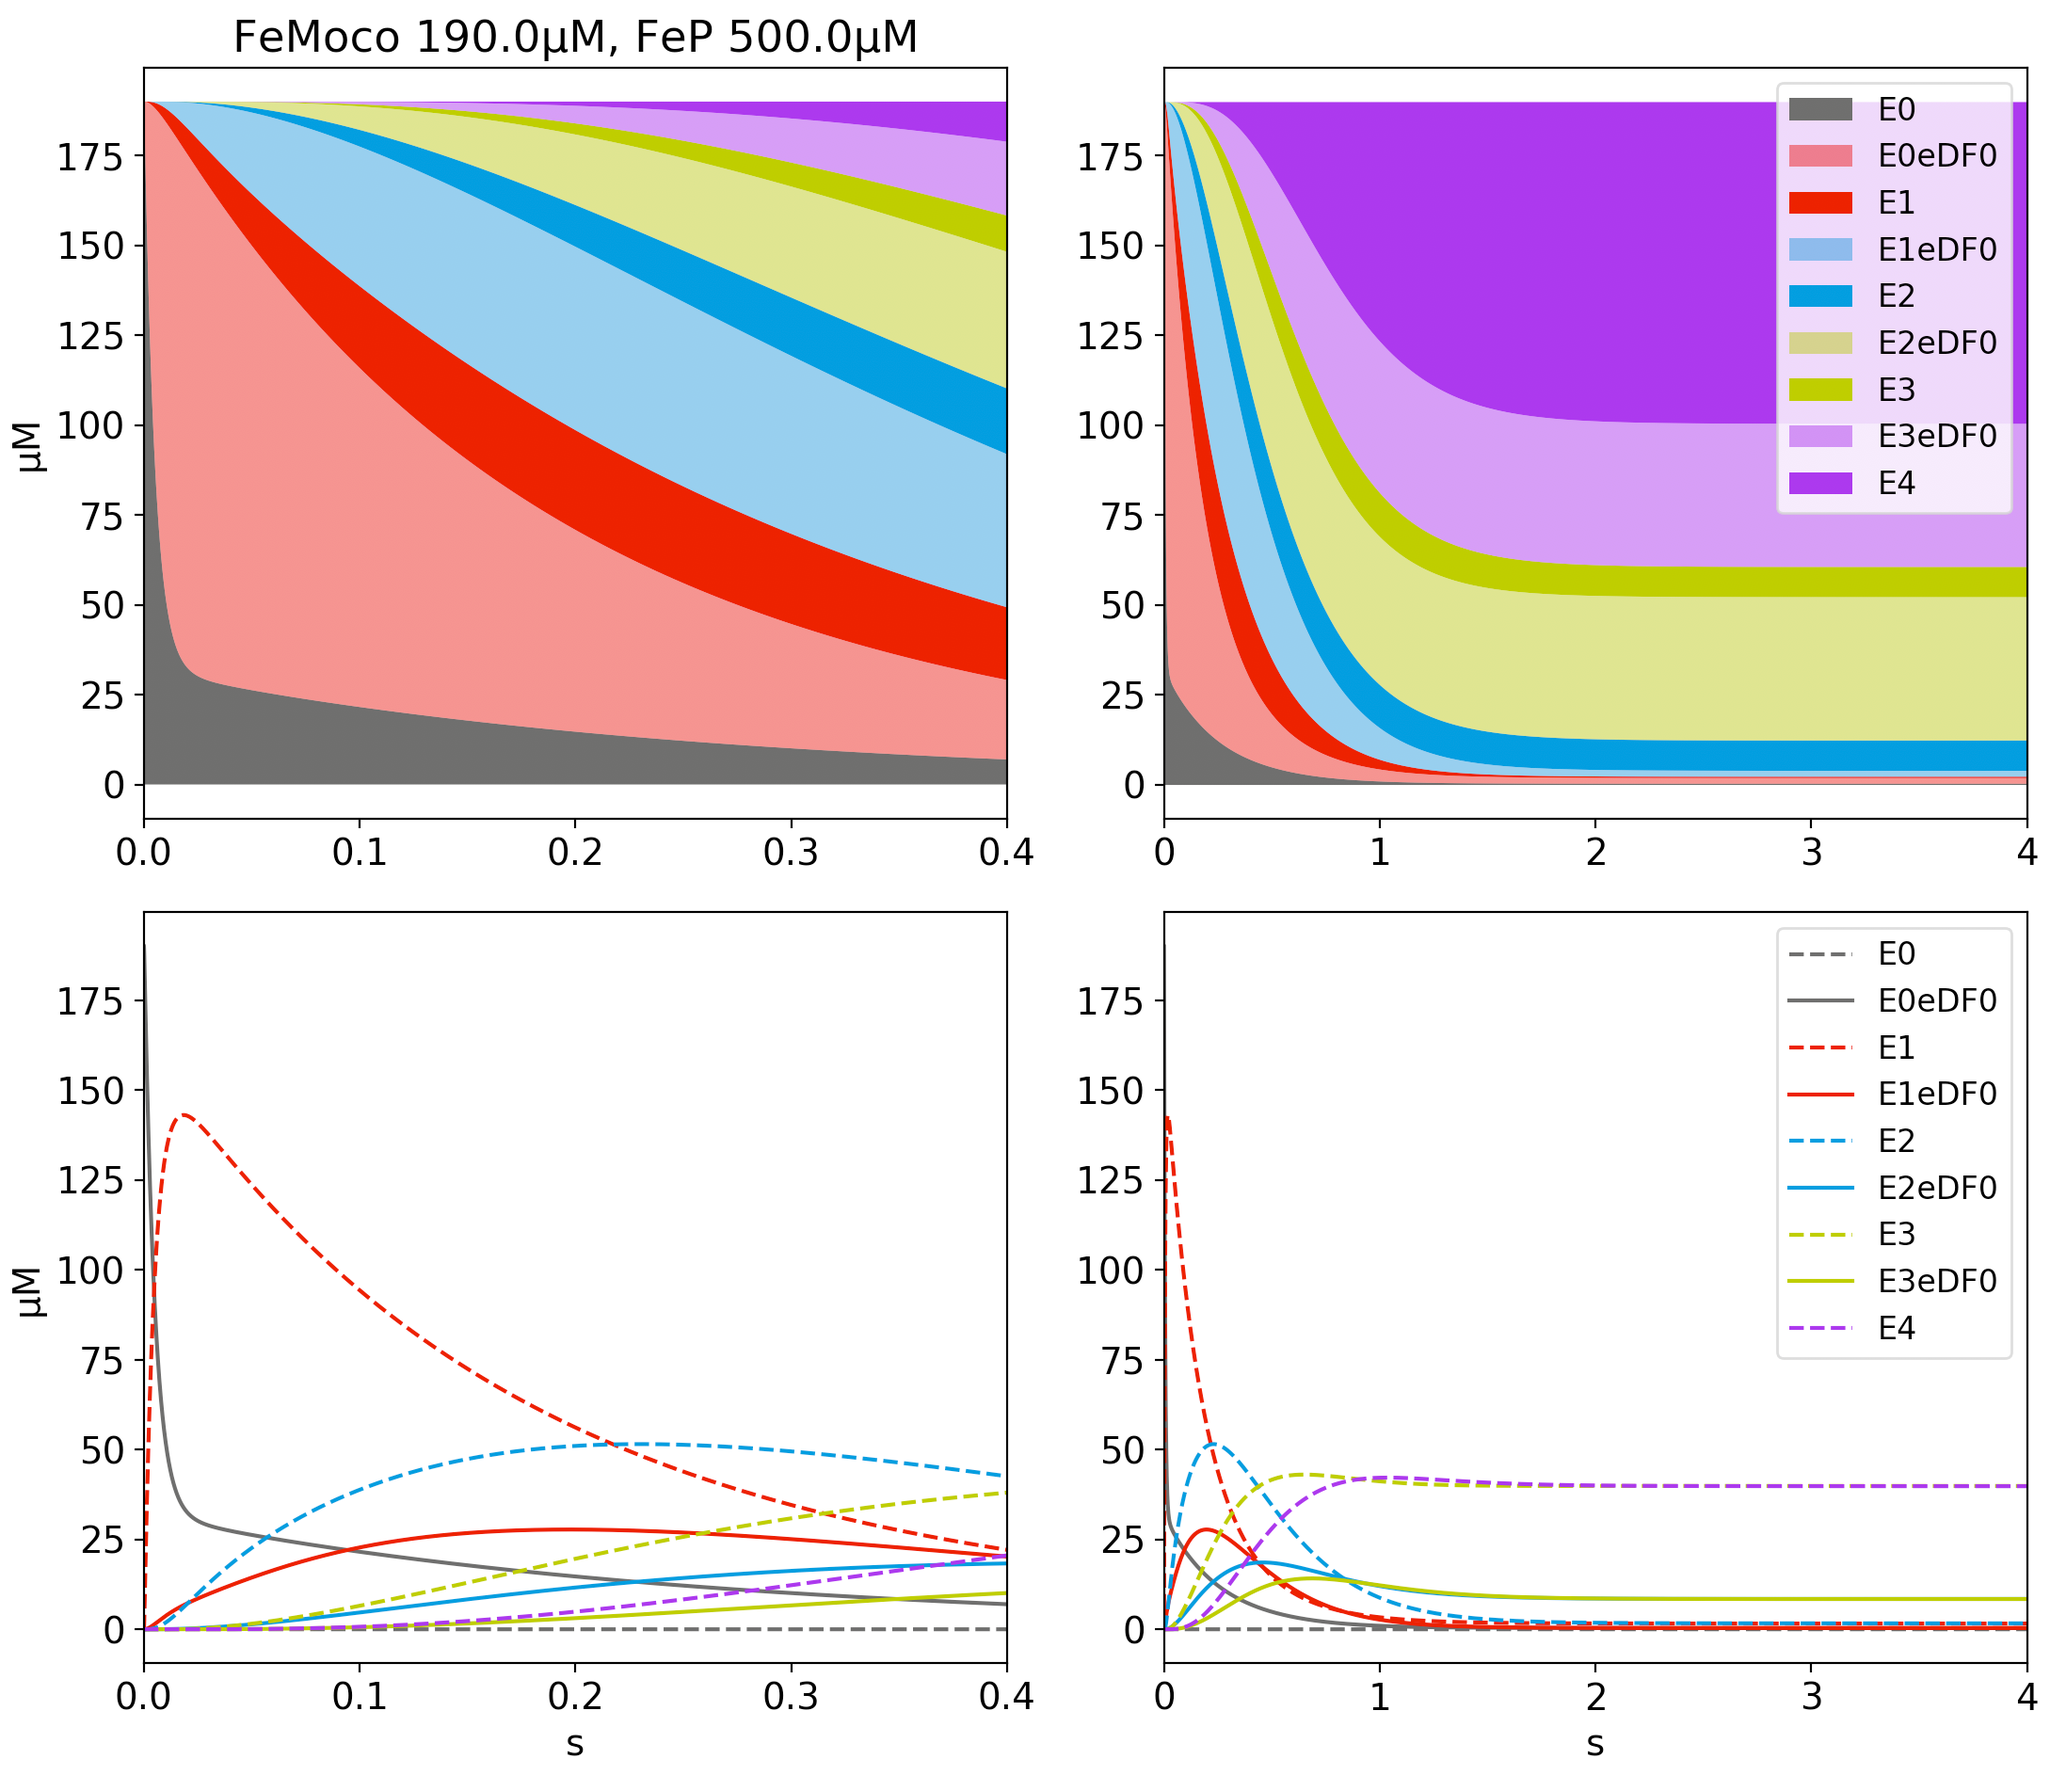
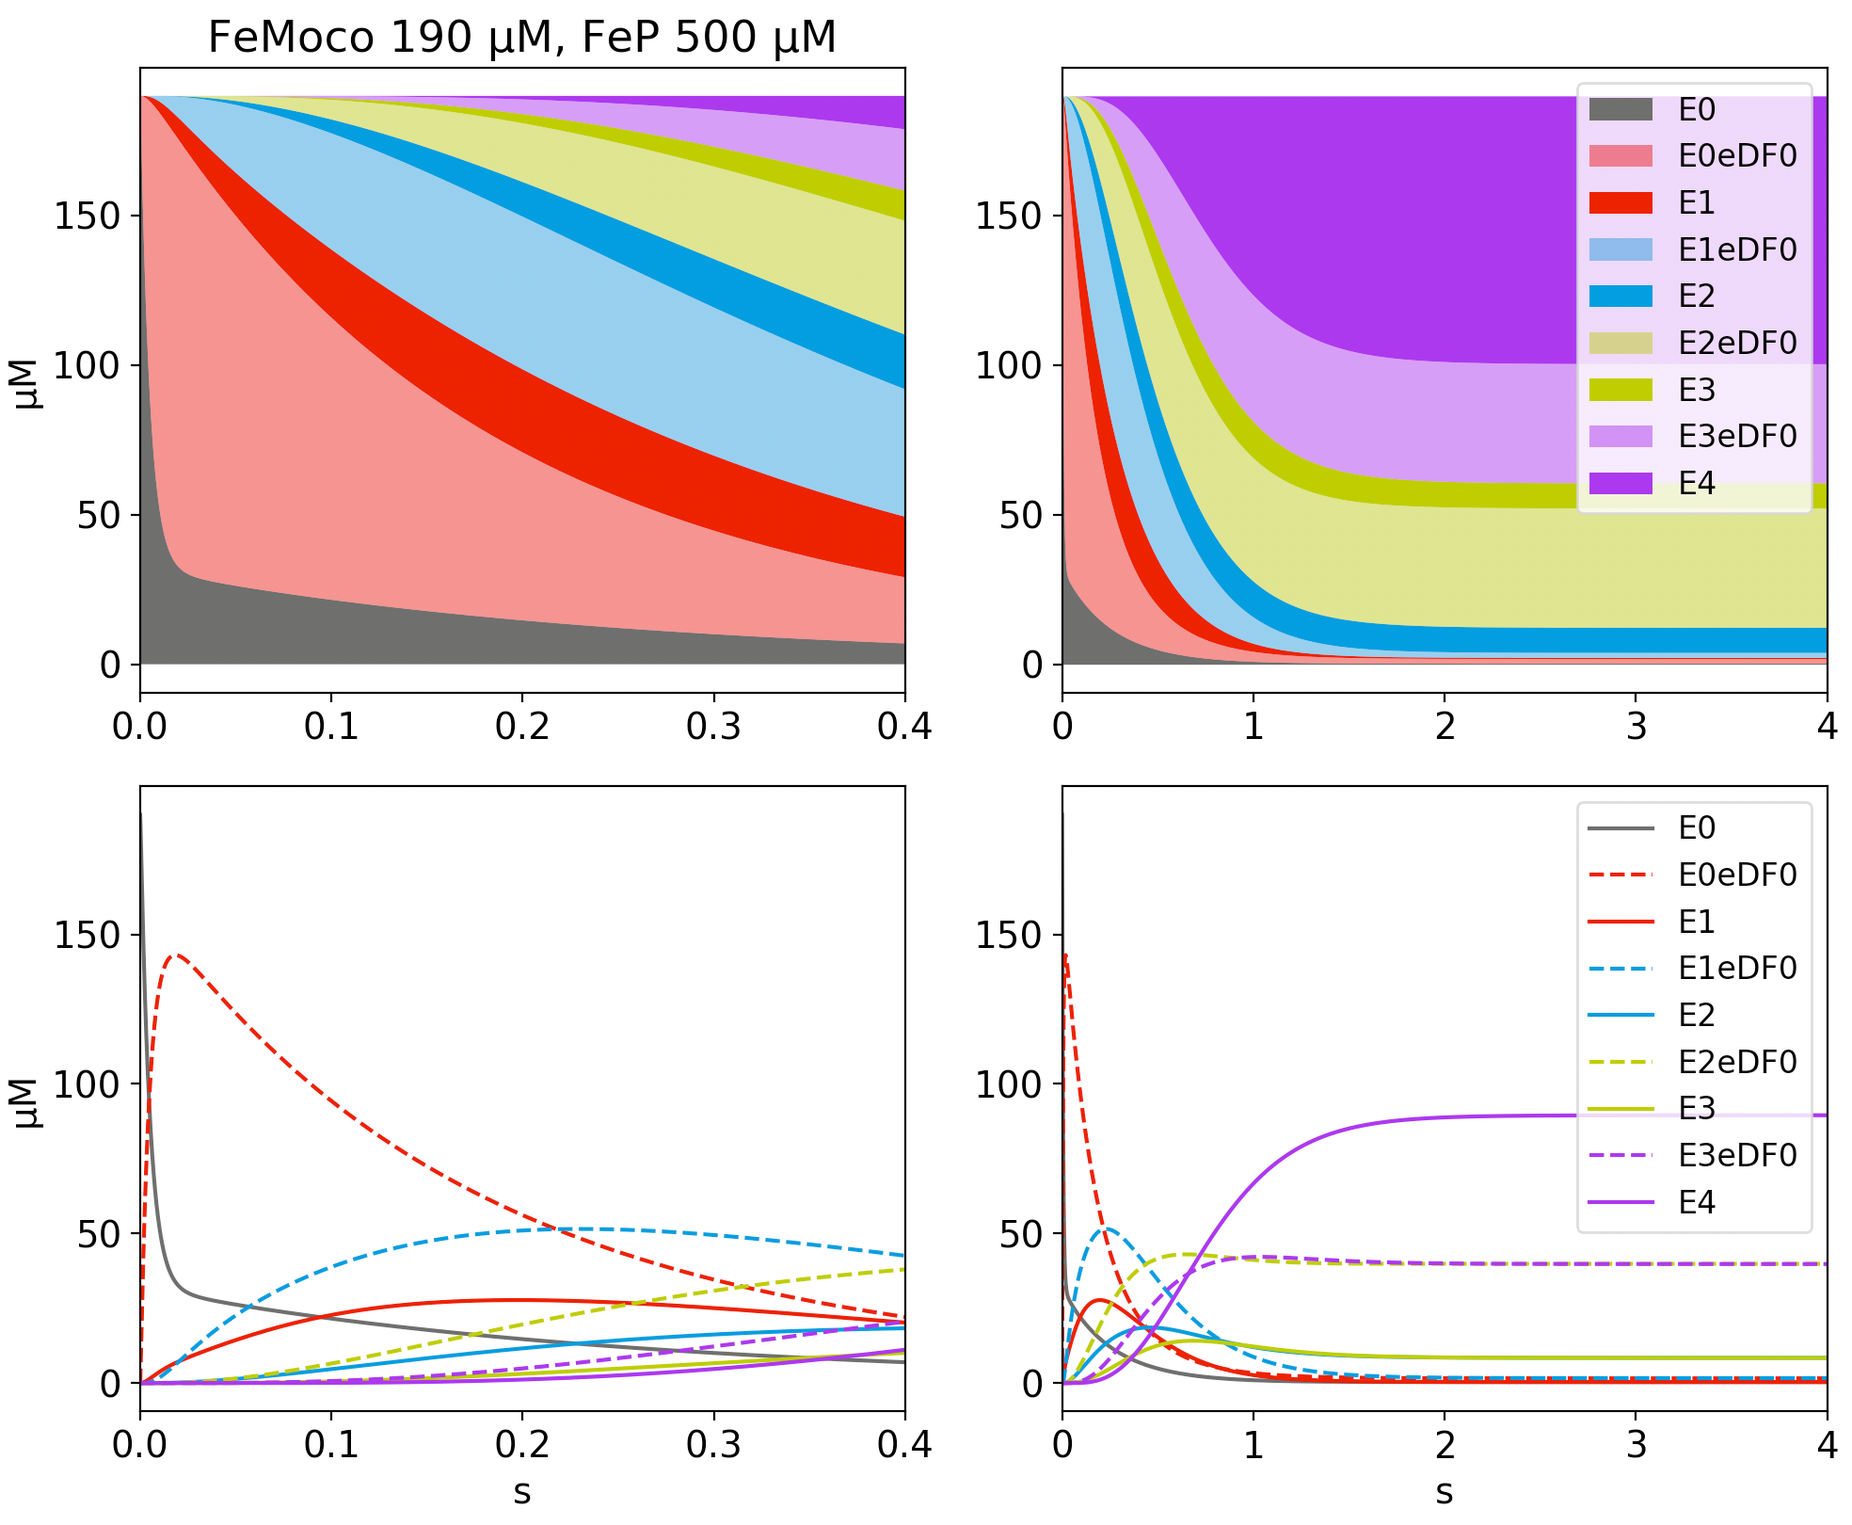
Update examples

diff --git a/examples/example1.py b/examples/example1.py
@@ -27,7 +27,6 @@ The following default values will be used for any omitted species:
         'P_H2': 0.0,
         }
 """
-
 initials = {
     'MoFe': 100e-6 * 1.9, # Remember to multiply by # Mo per MoFe dimer
     'FeP': 500e-6,
@@ -82,9 +81,9 @@ for ax in [m1, m2]:
                         linewidth=0,
                         )
 for ax in [m3, m4]:
-    for i, spec in enumerate(specs[:-1]):
+    for i, spec in enumerate(specs[1:]):
         ax.plot(t, spec*1e6, label=labs[i+1],
-                color=zcols[(i)//2], ls=lss[(i+1)%2]
+                color=zcols[(i+1)//2], ls=lss[(i)%2]
                 )
 for ax in [m1, m3]:
     ax.set_xlim(0, tmax/10)
@@ -97,7 +96,7 @@ for ax in [m2, m4]:
 for ax in [m3, m4]:
     ax.set_xlabel('s')
 for ax in [m1]:
-    ax.set_title('FeMoco ' + str(rxn.initials['MoFe']*1e6) + u'μM'
-                 + ', FeP ' + str(rxn.initials['FeP']*1e6) + u'μM'
+    ax.set_title('FeMoco ' + '{:.0f}'.format(rxn.initials['MoFe']*1e6) + u' μM'
+                 + ', FeP ' + '{:.0f}'.format(rxn.initials['FeP']*1e6) + u' μM'
                  )
 fig.tight_layout()

diff --git a/examples/example2.py b/examples/example2.py
@@ -70,7 +70,7 @@ for ax in [m2]:
 for ax in [m1, m2]:
     ax.set_xlabel('s')
 for ax in [m1]:
-    ax.set_title('FeMoco ' + str(rxn.initials['MoFe']*1e6) + u'μM'
-                 + ', FeP ' + str(rxn.initials['FeP']*1e6) + u'μM'
+    ax.set_title('FeMoco ' + '{:.0f}'.format(rxn.initials['MoFe']*1e6) + u' μM'
+                 + ', FeP ' + '{:.0f}'.format(rxn.initials['FeP']*1e6) + u' μM'
                  )
 fig.tight_layout()

diff --git a/README.md b/README.md
@@ -8,10 +8,11 @@ The oridinary differential equations (ODEs) were adapted from the Mathematica co
 
 
 ## Features
-The use of the package is demonstrated with two examples. Follow example 1 first:
+The use of the package is demonstrated with two examples. 
+In example 1, we integrate a high-flux reaction until the steady state is reached and plot the results both traditionally and stacked. 
 ![ex1-result1](examples/ex1-result1.png)
 
-The original LT kinetic constants are used by default, but can be easily modified. 
+In example 2, we demonstrate the funciton `set_ks`, which allows the modification of the default LT kinetic constants. 
 ![ex2-result1](examples/ex2-result1.png)
 
 
